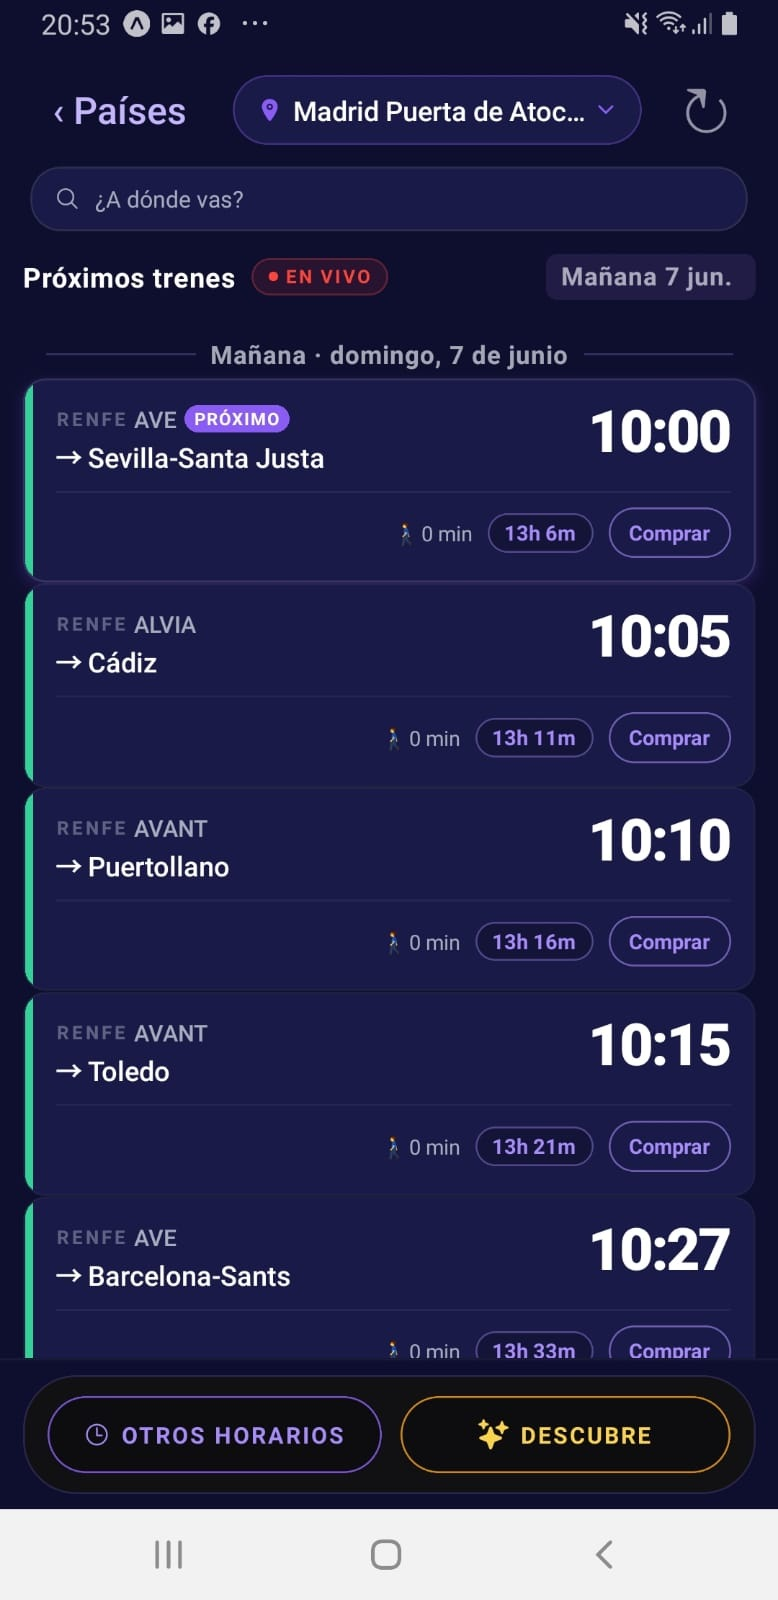
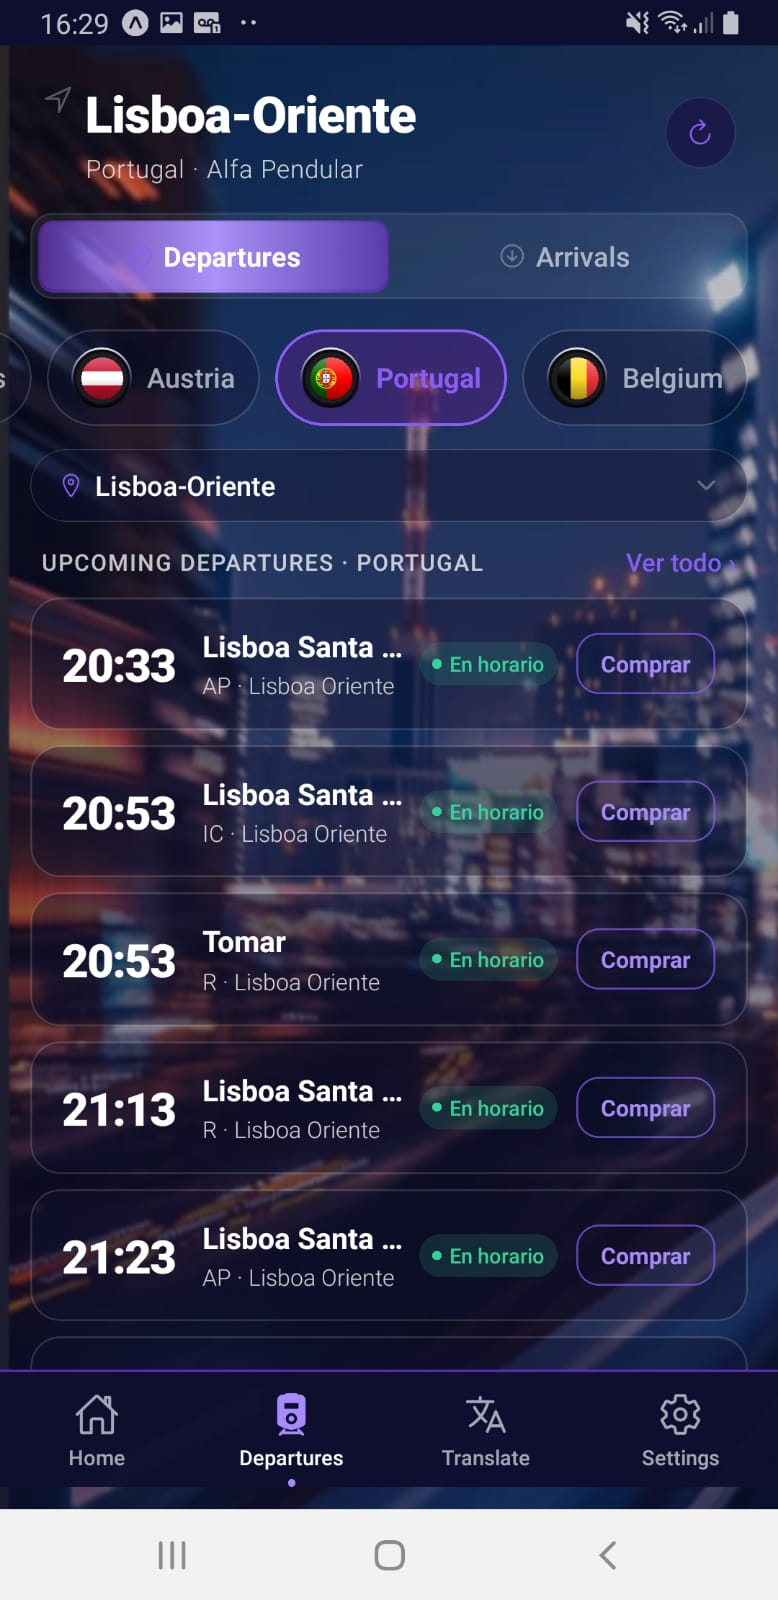
feat: mockup iPhone real + nuevas capturas de pantalla
- Frame iPhone 15: casing oscuro + rim metálico + Dynamic Island
- Botones power y volumen laterales con CSS pseudo-elements
- Screenshots derechos (sin rotación)
- Hover: translateY(-18px) scale(1.05) con glow violeta
- Nuevas fotos: Home (países), Salidas (Lisboa), Live (Frankfurt)

diff --git a/index.html b/index.html
@@ -474,13 +474,13 @@
     /* ── Screenshots ── */
     .screenshots-row {
       display: flex;
-      gap: 20px;
+      gap: 36px;
       justify-content: center;
       overflow-x: auto;
-      padding: 40px 0 60px;
+      padding: 50px 20px 70px;
       scroll-snap-type: x mandatory;
       -webkit-overflow-scrolling: touch;
-      align-items: center;
+      align-items: flex-end;
       position: relative;
     }
     .screenshots-row::before {
@@ -493,63 +493,109 @@
       background: radial-gradient(ellipse, rgba(124,58,237,0.18) 0%, transparent 70%);
       pointer-events: none;
     }
+
+    /* ── Item wrapper — recto + hover adelante ── */
     .screenshot-item {
       flex-shrink: 0;
       text-align: center;
       scroll-snap-align: center;
       position: relative;
+      transition: transform 0.38s cubic-bezier(0.34,1.56,0.64,1);
     }
-    .screenshot-item:nth-child(1) { transform: rotate(-4deg) translateY(16px); }
-    .screenshot-item:nth-child(2) { transform: rotate(-1.5deg) translateY(6px); z-index: 2; }
-    .screenshot-item:nth-child(3) { transform: rotate(1.5deg) translateY(6px); z-index: 2; }
-    .screenshot-item:nth-child(4) { transform: rotate(4deg) translateY(16px); }
-    .screenshot-item:hover { transform: rotate(0deg) translateY(-8px) scale(1.03) !important; z-index: 10; transition: transform 0.4s ease; }
-    .screenshot-phone {
-      width: 220px;
-      height: 440px;
-      border-radius: 36px;
-      overflow: hidden;
-      border: 2px solid rgba(255,255,255,0.08);
-      box-shadow: 0 20px 60px rgba(124,58,237,0.2), 0 0 0 1px rgba(124,58,237,0.15), inset 0 1px 0 rgba(255,255,255,0.1);
-      background: #0a0a0f;
-      transition: transform 0.3s, box-shadow 0.3s;
+    .screenshot-item:hover {
+      transform: translateY(-18px) scale(1.05) !important;
+      z-index: 10;
+    }
+
+    /* ── Phone mockup (casing externo) ── */
+    .phone-mockup {
       position: relative;
-      display: flex;
-      flex-direction: column;
+      display: inline-block;
     }
-    .screenshot-phone:hover {
-      transform: translateY(-8px);
-      box-shadow: 0 40px 80px rgba(124,58,237,0.3), 0 0 0 1px rgba(124,58,237,0.25);
+    /* Botón power (derecha) */
+    .phone-mockup::after {
+      content: '';
+      position: absolute;
+      right: -5px;
+      top: 130px;
+      width: 4px;
+      height: 58px;
+      background: linear-gradient(180deg, #2e2e30, #1c1c1e 40%, #2e2e30);
+      border-radius: 0 3px 3px 0;
     }
+    /* Botones volumen (izquierda) */
+    .phone-mockup::before {
+      content: '';
+      position: absolute;
+      left: -5px;
+      top: 110px;
+      width: 4px;
+      height: 34px;
+      background: linear-gradient(180deg, #2e2e30, #1c1c1e 40%, #2e2e30);
+      border-radius: 3px 0 0 3px;
+      box-shadow: 0 46px 0 #1c1c1e, 0 47px 0 #2a2a2c, 0 80px 0 #1c1c1e, 0 81px 0 #2a2a2c;
+    }
+
+    /* ── Pantalla iPhone ── */
+    .screenshot-phone {
+      width: 222px;
+      height: 480px;
+      border-radius: 48px;
+      background: #000;
+      /* Casing iPhone: capa interna + rim metálico + capa externa */
+      box-shadow:
+        0 0 0 8px #1c1c1e,
+        0 0 0 9px rgba(255,255,255,0.18),
+        0 0 0 11px #111114,
+        0 28px 70px rgba(0,0,0,0.75),
+        0 0 60px rgba(124,58,237,0.28);
+      position: relative;
+      overflow: hidden;
+      transition: box-shadow 0.38s ease;
+    }
+    .screenshot-item:hover .screenshot-phone {
+      box-shadow:
+        0 0 0 8px #1c1c1e,
+        0 0 0 9px rgba(255,255,255,0.22),
+        0 0 0 11px #111114,
+        0 45px 90px rgba(0,0,0,0.85),
+        0 0 80px rgba(124,58,237,0.45);
+    }
+
+    /* Dynamic Island */
+    .phone-island {
+      position: absolute;
+      top: 14px;
+      left: 50%;
+      transform: translateX(-50%);
+      width: 86px;
+      height: 28px;
+      background: #000;
+      border-radius: 14px;
+      z-index: 10;
+      box-shadow: 0 0 0 1px rgba(255,255,255,0.06);
+    }
+
     .screenshot-statusbar { display: none; }
-    .statusbar-time {
-      font-size: 11px;
-      font-weight: 700;
-      color: #fff;
-      letter-spacing: 0.2px;
-    }
-    .statusbar-icons {
-      display: flex;
-      align-items: center;
-      gap: 4px;
-    }
-    .statusbar-icons svg { display: block; }
+
     .screenshot-phone img {
       width: 100%;
       height: 100%;
       object-fit: cover;
       object-position: top;
+      display: block;
     }
     .screenshot-caption {
-      margin-top: 14px;
+      margin-top: 18px;
       font-size: 13px;
       font-weight: 600;
       color: var(--muted);
       letter-spacing: 0.5px;
     }
     @media (max-width: 768px) {
-      .screenshots-row { justify-content: flex-start; padding: 20px 16px 40px; }
-      .screenshot-phone { width: 180px; height: 360px; border-radius: 20px; }
+      .screenshots-row { justify-content: flex-start; padding: 20px 16px 40px; gap: 20px; }
+      .screenshot-phone { width: 170px; height: 368px; border-radius: 38px; }
+      .phone-island { width: 70px; height: 22px; top: 10px; }
     }
 
     /* ── Stats ── */
@@ -1010,44 +1056,29 @@
 
     <div class="screenshots-row">
       <div class="screenshot-item">
-        <div class="screenshot-phone">
-          <div class="screenshot-statusbar">
-            <span class="statusbar-time">9:41</span>
-            <div class="statusbar-icons">
-              <svg width="15" height="11" viewBox="0 0 15 11" fill="#fff"><rect x="0" y="4" width="3" height="7" rx="1"/><rect x="4" y="2.5" width="3" height="8.5" rx="1"/><rect x="8" y="1" width="3" height="10" rx="1"/><rect x="12" y="0" width="3" height="11" rx="1"/></svg>
-              <svg width="15" height="11" viewBox="0 0 24 24" fill="none" stroke="#fff" stroke-width="2"><path d="M5 12.55a11 11 0 0 1 14.08 0"/><path d="M1.42 9a16 16 0 0 1 21.16 0"/><path d="M8.53 16.11a6 6 0 0 1 6.95 0"/><circle cx="12" cy="20" r="1" fill="#fff"/></svg>
-              <svg width="25" height="11" viewBox="0 0 25 12" fill="none"><rect x="0.5" y="0.5" width="21" height="11" rx="3.5" stroke="#fff" stroke-opacity="0.35"/><rect x="2" y="2" width="16" height="8" rx="2" fill="#fff"/><path d="M23 4v4a2 2 0 0 0 0-4z" fill="#fff" fill-opacity="0.4"/></svg>
-            </div>
+        <div class="phone-mockup">
+          <div class="screenshot-phone">
+            <div class="phone-island"></div>
+            <img src="screen-home.jpg" alt="WoW Train — Home" loading="lazy" />
           </div>
-          <img src="screen-home.jpg" alt="WoW Train — Home" loading="lazy" />
         </div>
         <p class="screenshot-caption" data-i18n="ss_home">Choose your country</p>
       </div>
       <div class="screenshot-item">
-        <div class="screenshot-phone">
-          <div class="screenshot-statusbar">
-            <span class="statusbar-time">9:41</span>
-            <div class="statusbar-icons">
-              <svg width="15" height="11" viewBox="0 0 15 11" fill="#fff"><rect x="0" y="4" width="3" height="7" rx="1"/><rect x="4" y="2.5" width="3" height="8.5" rx="1"/><rect x="8" y="1" width="3" height="10" rx="1"/><rect x="12" y="0" width="3" height="11" rx="1"/></svg>
-              <svg width="15" height="11" viewBox="0 0 24 24" fill="none" stroke="#fff" stroke-width="2"><path d="M5 12.55a11 11 0 0 1 14.08 0"/><path d="M1.42 9a16 16 0 0 1 21.16 0"/><path d="M8.53 16.11a6 6 0 0 1 6.95 0"/><circle cx="12" cy="20" r="1" fill="#fff"/></svg>
-              <svg width="25" height="11" viewBox="0 0 25 12" fill="none"><rect x="0.5" y="0.5" width="21" height="11" rx="3.5" stroke="#fff" stroke-opacity="0.35"/><rect x="2" y="2" width="16" height="8" rx="2" fill="#fff"/><path d="M23 4v4a2 2 0 0 0 0-4z" fill="#fff" fill-opacity="0.4"/></svg>
-            </div>
+        <div class="phone-mockup">
+          <div class="screenshot-phone">
+            <div class="phone-island"></div>
+            <img src="screen-live.jpg" alt="WoW Train — Live departures" loading="lazy" />
           </div>
-          <img src="screen-live.jpg" alt="WoW Train — Live departures" loading="lazy" />
         </div>
         <p class="screenshot-caption" data-i18n="ss_live">Live departures</p>
       </div>
       <div class="screenshot-item">
-        <div class="screenshot-phone">
-          <div class="screenshot-statusbar">
-            <span class="statusbar-time">9:41</span>
-            <div class="statusbar-icons">
-              <svg width="15" height="11" viewBox="0 0 15 11" fill="#fff"><rect x="0" y="4" width="3" height="7" rx="1"/><rect x="4" y="2.5" width="3" height="8.5" rx="1"/><rect x="8" y="1" width="3" height="10" rx="1"/><rect x="12" y="0" width="3" height="11" rx="1"/></svg>
-              <svg width="15" height="11" viewBox="0 0 24 24" fill="none" stroke="#fff" stroke-width="2"><path d="M5 12.55a11 11 0 0 1 14.08 0"/><path d="M1.42 9a16 16 0 0 1 21.16 0"/><path d="M8.53 16.11a6 6 0 0 1 6.95 0"/><circle cx="12" cy="20" r="1" fill="#fff"/></svg>
-              <svg width="25" height="11" viewBox="0 0 25 12" fill="none"><rect x="0.5" y="0.5" width="21" height="11" rx="3.5" stroke="#fff" stroke-opacity="0.35"/><rect x="2" y="2" width="16" height="8" rx="2" fill="#fff"/><path d="M23 4v4a2 2 0 0 0 0-4z" fill="#fff" fill-opacity="0.4"/></svg>
-            </div>
+        <div class="phone-mockup">
+          <div class="screenshot-phone">
+            <div class="phone-island"></div>
+            <img src="screen-board.jpg" alt="WoW Train — Departure board" loading="lazy" />
           </div>
-          <img src="screen-board.jpg" alt="WoW Train — Departure board" loading="lazy" />
         </div>
         <p class="screenshot-caption" data-i18n="ss_board">Departure board</p>
       </div>